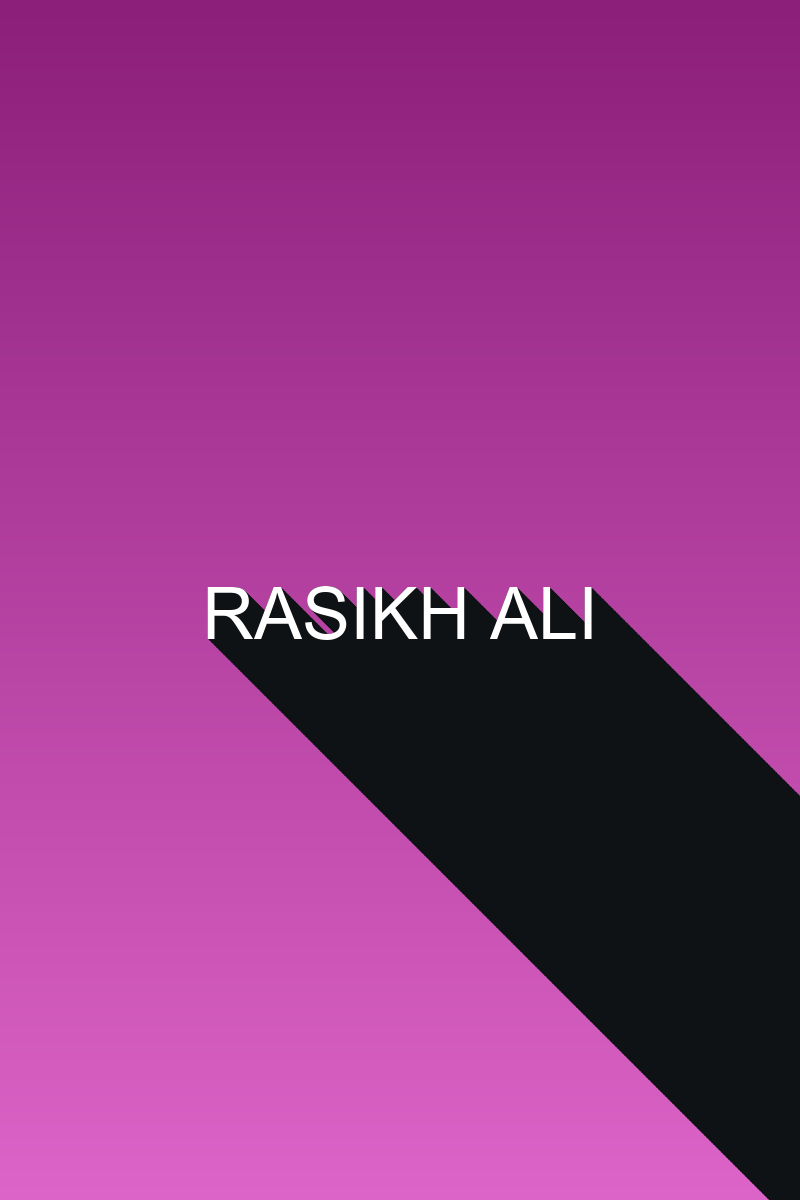
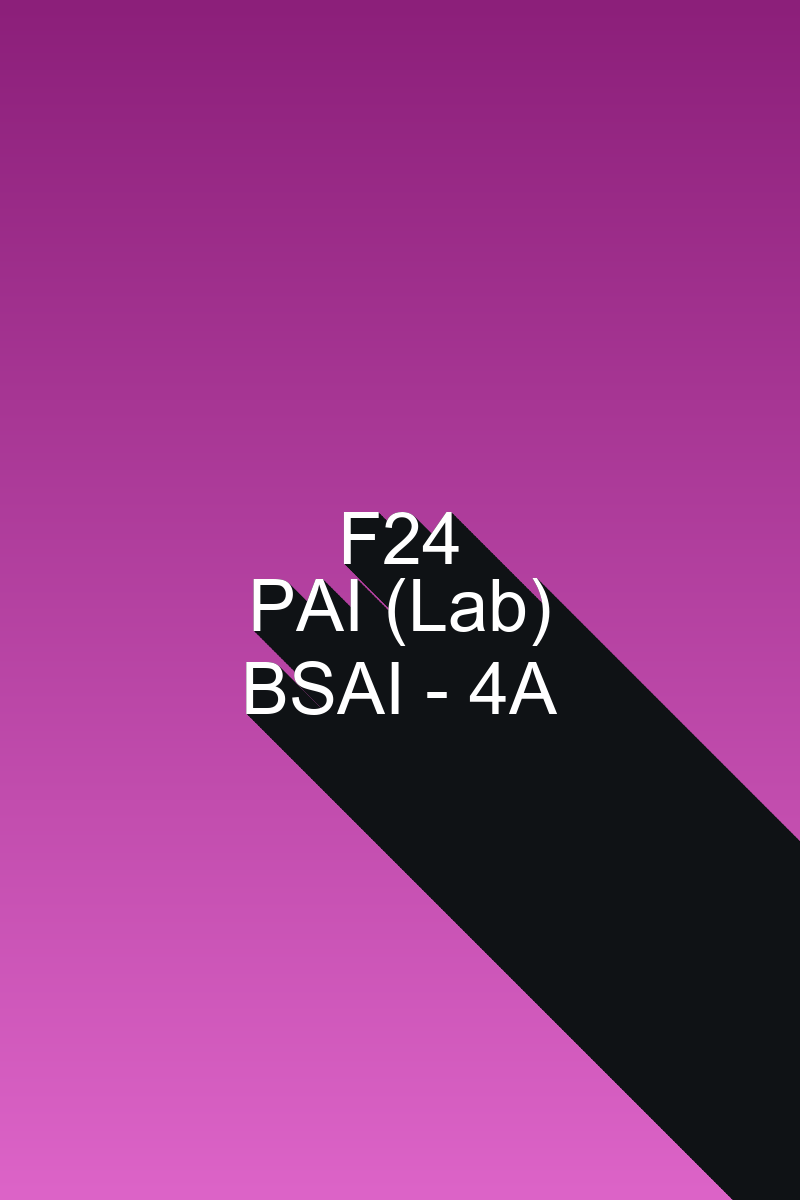
Update: updated for Fall-25 & Spring-26 - version 1.0 & fixed some issues

Changed region(s): [[0.25, 0.4008, 1.0, 1.0], [0.5312, 0.555, 0.5625, 0.5858]]

diff --git a/templates/index.html b/templates/index.html
@@ -600,20 +600,6 @@
         document.getElementById('shadowtext-angle-value').textContent = this.value + '°';
     });
 
-    // Auto-generate on input change (debounced)
-    let shadowTextDebounceTimer;
-    const shadowTextInputs = document.querySelectorAll('#shadowtext-form input, #shadowtext-form textarea');
-    shadowTextInputs.forEach(input => {
-        input.addEventListener('input', function() {
-            clearTimeout(shadowTextDebounceTimer);
-            shadowTextDebounceTimer = setTimeout(() => {
-                if (document.getElementById('shadowtext-name').value.trim()) {
-                    generateShadowText();
-                }
-            }, 500);
-        });
-    });
-
     function generateShadowText() {
         const formData = new FormData(document.getElementById('shadowtext-form'));
         const data = {
@@ -659,25 +645,7 @@
         window.location.href = '/shadowtext/crop';
     }
 
-    // Initialize with default generation when section is shown
-    document.addEventListener('DOMContentLoaded', function() {
-        // Generate default image when shadowtext section is first opened
-        const observer = new MutationObserver(function(mutations) {
-            mutations.forEach(function(mutation) {
-                const shadowtextSection = document.getElementById('shadowtext-studio');
-                if (shadowtextSection && shadowtextSection.classList.contains('active') && !shadowTextImageGenerated) {
-                    generateShadowText();
-                    observer.disconnect();
-                }
-            });
-        });
 
-        observer.observe(document.body, {
-            attributes: true,
-            subtree: true,
-            attributeFilter: ['class']
-        });
-    });
     </script>
 </body>
 </html>

diff --git a/shadowtext_studio.py b/shadowtext_studio.py
@@ -37,7 +37,12 @@ def generate_image(name, color_top, color_bottom, alpha=10.0, shadow_angle=45):
     try:
         font = ImageFont.truetype("arial.ttf", 72)
     except IOError:
-        font = ImageFont.load_default()
+        try:
+            # Try to load a larger default font
+            font = ImageFont.truetype("arialbd.ttf", 72)
+        except IOError:
+            # Fallback to default (will be small)
+            font = ImageFont.load_default()
 
     # Split text into lines for multiline support
     lines = name.split('\n')

diff --git a/app.py b/app.py
@@ -639,4 +639,4 @@ def download_section_by_semester(semester):
     )
 
 if __name__ == '__main__':
-    app.run(debug=True, port=5005)
+    app.run(debug=True)
